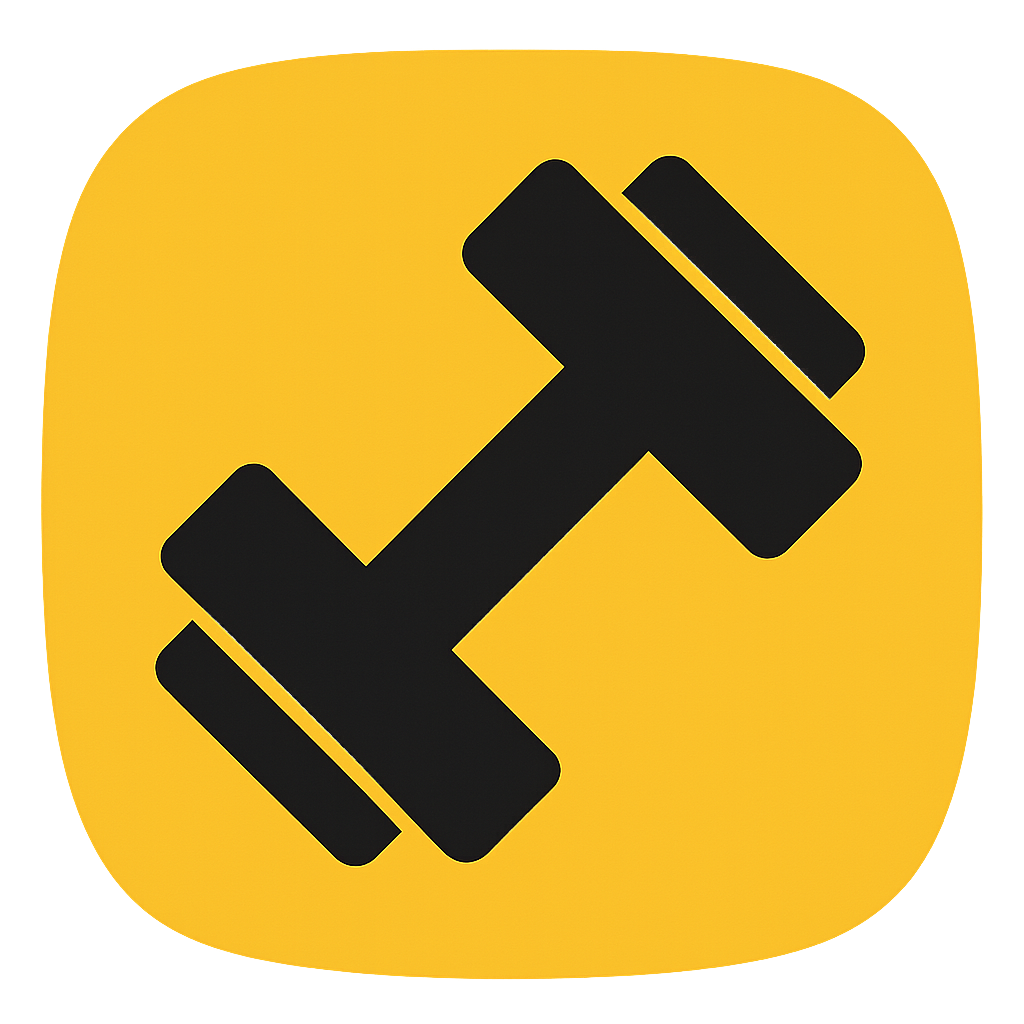
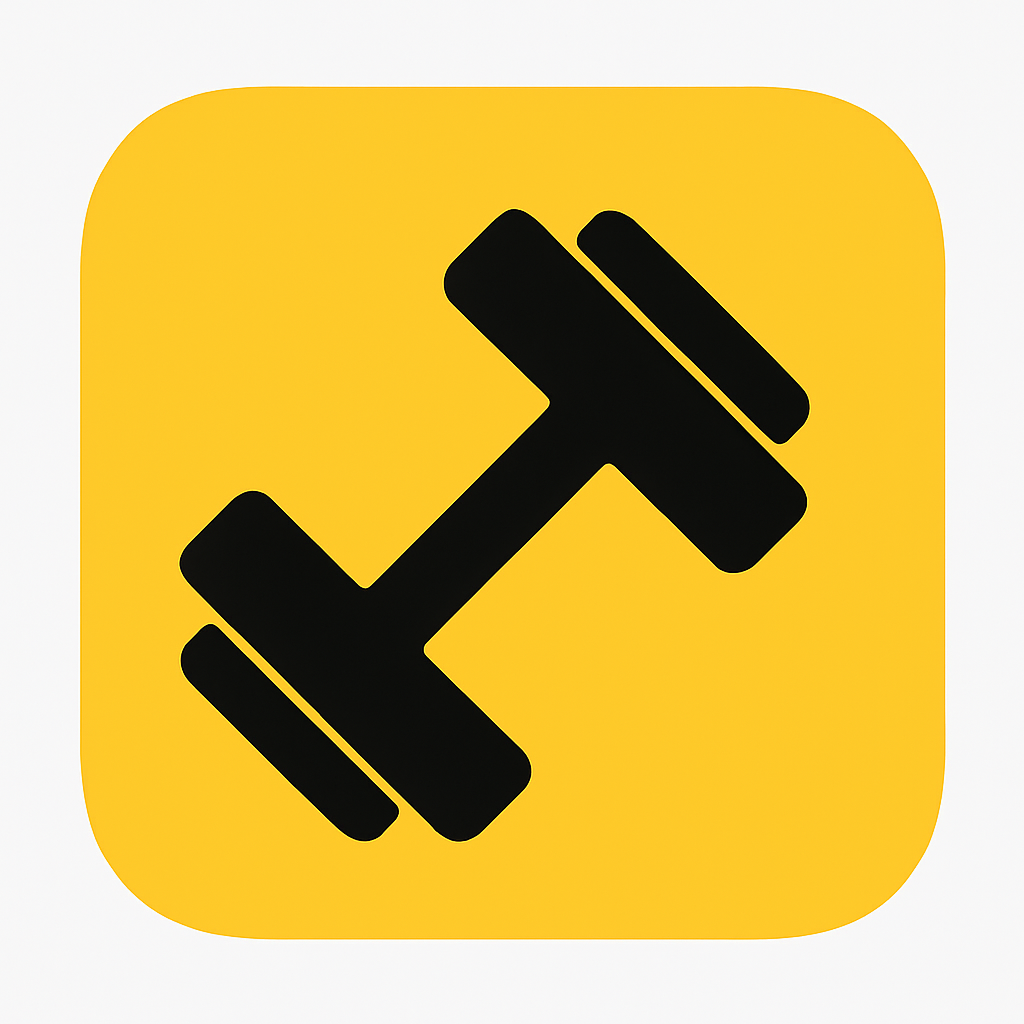
cambio icono y correccion de header

diff --git a/src/screens/exercises/CreateExerciseScreen.js b/src/screens/exercises/CreateExerciseScreen.js
@@ -25,12 +25,14 @@ const CreateExerciseScreen = ({ navigation, route }) => {
     <View style={styles.container}>
       <TextInput
         placeholder="Nombre del ejercicio"
+        placeholderTextColor="#666"
         value={nombre}
         onChangeText={setNombre}
         style={styles.input}
       />
       <TextInput
         placeholder="Descripción (opcional)"
+        placeholderTextColor="#666"
         value={descripcion}
         onChangeText={setDescripcion}
         style={styles.input}
